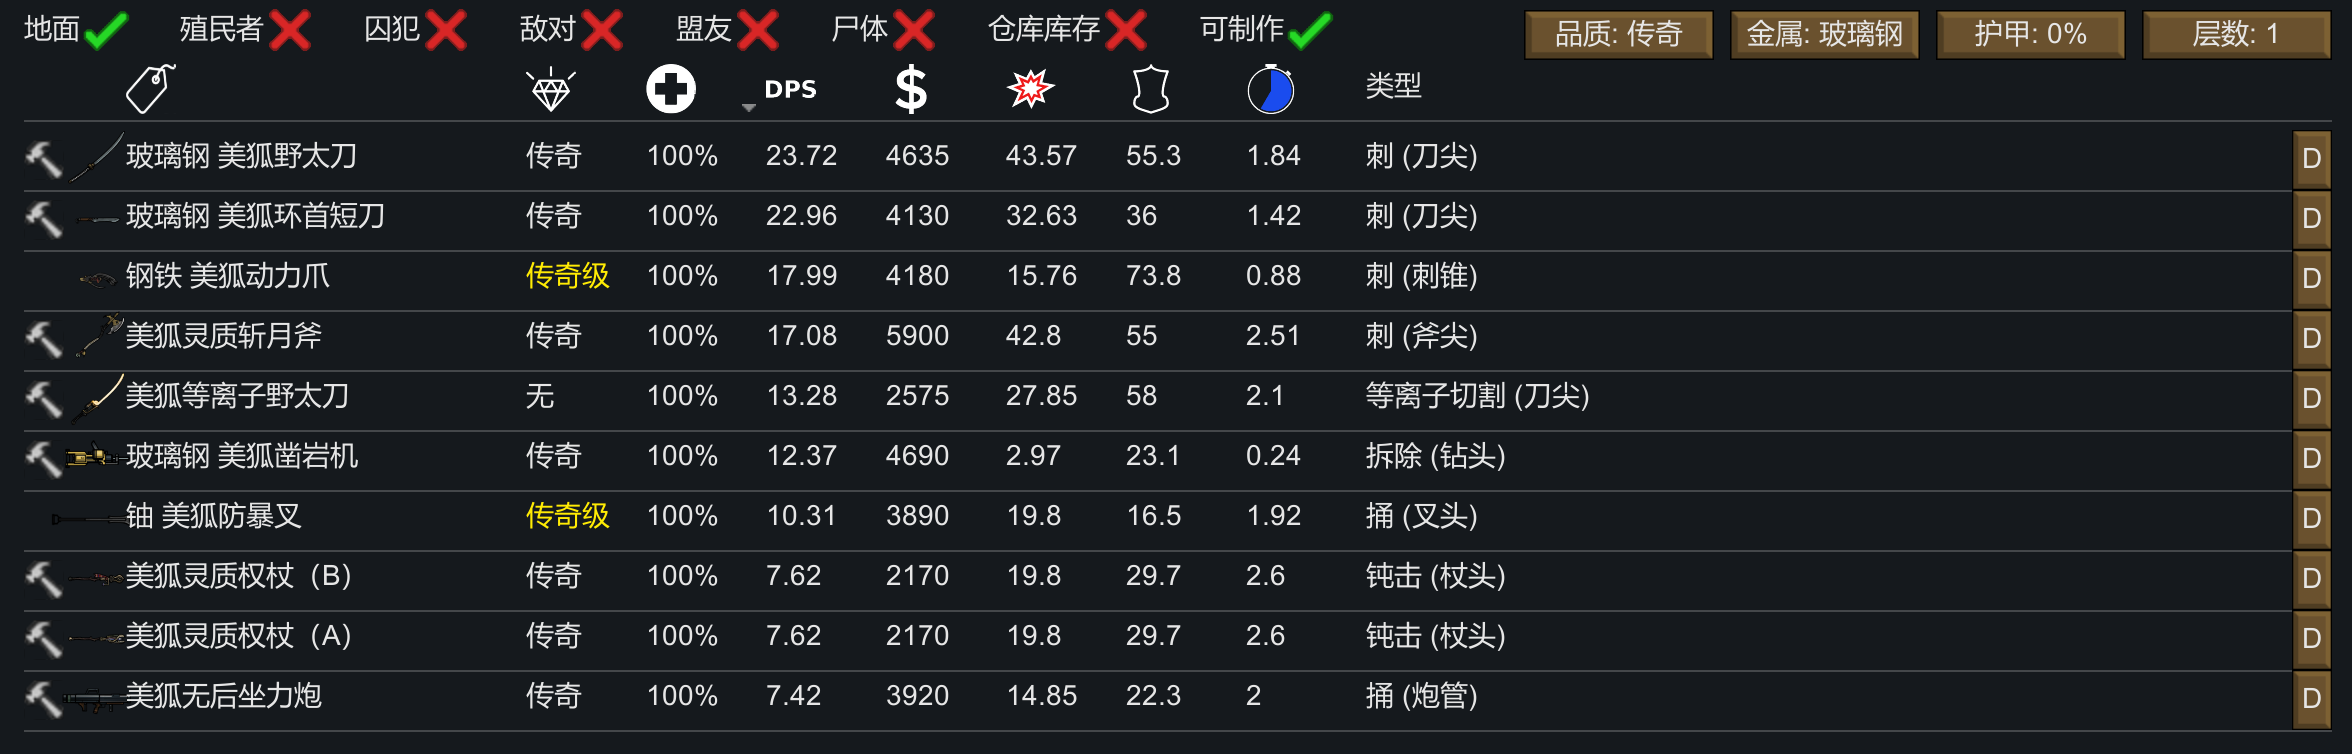
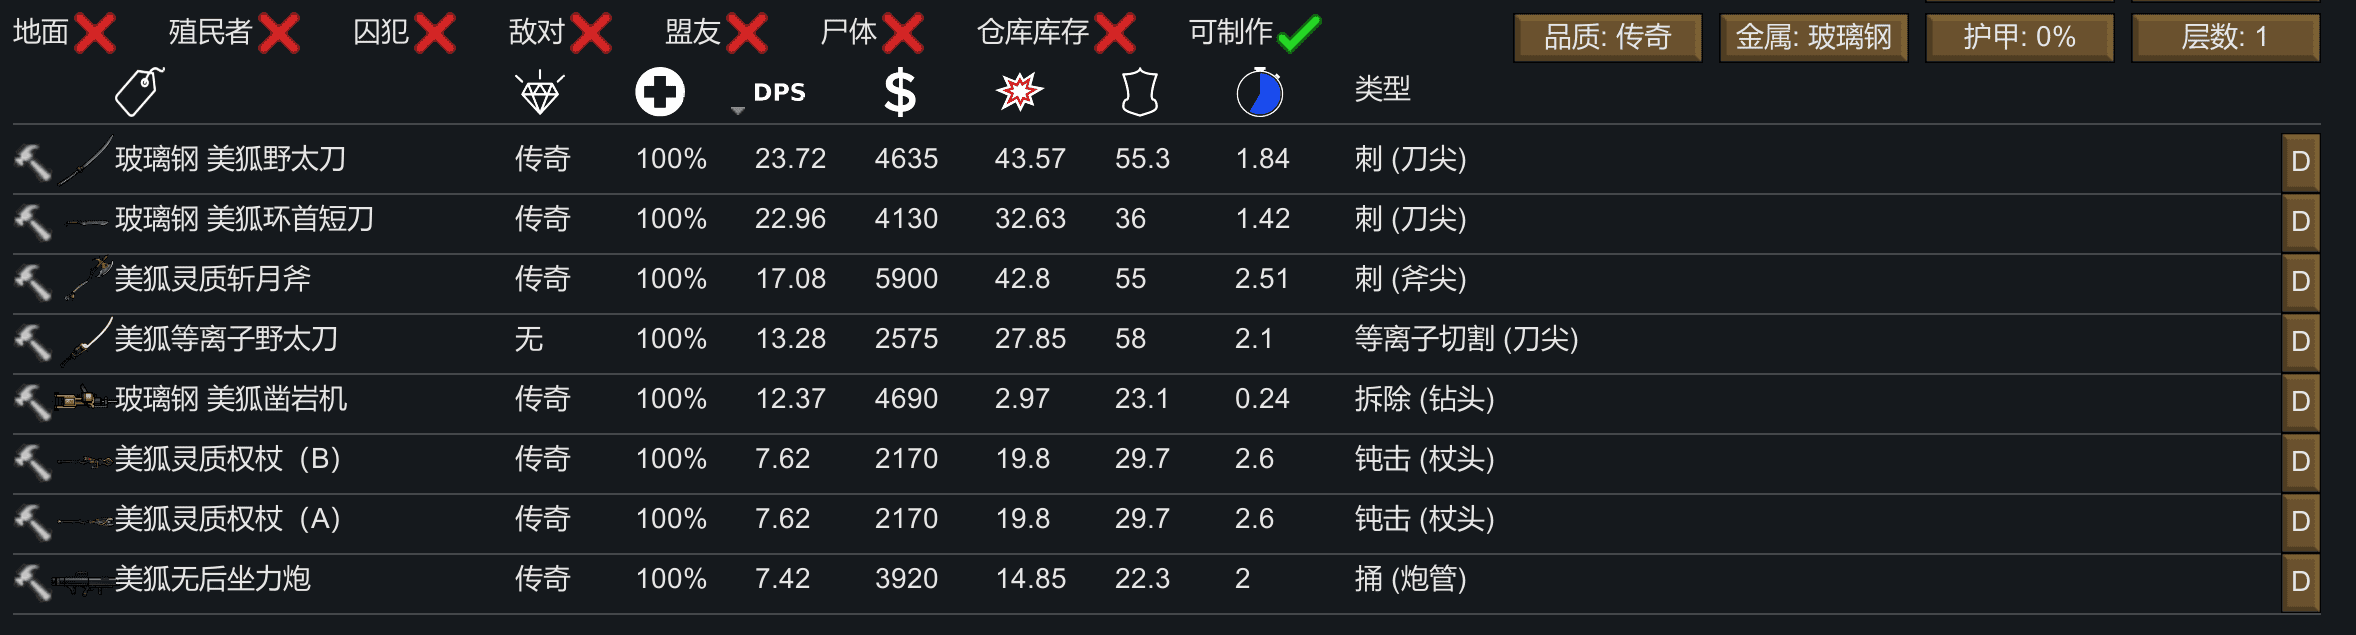
Auto backup: 2026/7/6 04:19:36

Changed region(s): [[0.0, 0.0, 0.9932, 0.9874], [0.6207, 0.0, 0.9932, 0.1197]]

diff --git a/source/_posts/Rimworld/AI通用提示词.md b/source/_posts/Rimworld/AI通用提示词.md
@@ -1,0 +1,125 @@
+---
+title: AI通用提示词
+date: 2026-01-02 22:04:38
+tags: [rimworld]
+categories: [rimworld]
+---
+
+我正在制作rimworld的mod百科,需要你阅读mod的内容,并给出mod内容的详细百科.
+
+工作区路径为 `D:\Games\1_RimworldHistorySaveAndMods\PersonalMod\LocalModsForAI` ,所有的文件都需要接路径前缀
+ -  文件夹下的子文件夹分别为创意工坊的mod源码,每次使用时会告诉你要阅读哪个文件夹的内容.
+ -  mod源码中`1.6\Assemblies`的与dll同名的文件为反编译dll文件得到的源码.
+ -  mcp服务器中有rimworld源码,如需可读取
+ -  `RimworldZH`文件夹为原版的简体中文翻译,方便你确定译名
+ -  仅阅读给你说明的文件夹,若有联动其他文件夹的源码,也可以读取其他文件夹.**但所有的读取与更改不得超过工作区**
+
+在书写过程中,我们遵循如下约定:
+ -  全程以中文进行输出以及书写
+ -  源码中可能以非中文硬编码,制作wiki时,若已存在wiki,则需你自行与wiki中的名词进行对应,若不存在wiki,则你自己翻译一遍,以 `译名(原名)` 的方式书写其第一次出现,后续使用译名
+ -  需要尽可能全面的内容,将mod的**所有内容**都展示出来,不仅仅是种族的特征,还有衣物/武器/派系/建筑等mod中所有数据均要展示,我会自行筛选哪些需要哪些删去,你只负责告诉我一共有哪些内容
+ -  若某属性本身为固定值,则记为 **值  属性** ,例如 15%穿甲 ,意为穿甲本身值为15%
+ -  若某属性为加减乘某值,则记为 **属性±×值** ,例如 承伤-50% ,意为承伤系数减少了50%
+ -  对技能的描述固定为 xx前摇xx cd,xx释放半径xx爆炸半径,xx消耗,为范围内生物造成(是否无视承伤系数)xx穿甲的x点x(伤害类型)伤害,施加"xx"状态,持续xx时间
+ -  若某些内容(技能/武器/衣物)会附带"状态(hediff)",则应当写清状态持续时间(若为随伤害附加,则应说清每点伤害累计x%状态值)
+ -  百科整体遵循"客观内容 空行 主观评论"架构,你只需填充客观内容即可,不必填写主观评论
+ -  此项内容是一个非常大的任务,途中会多次上下文溢出,请自行管理上下文和注意力
+
+
+百科整体架构如下
+```
+
+**重要注意事项**(若有需要特别提醒玩家的机制/bug/注意事项,写在这里,加粗强调)
+
+## 总览/定义区
+
+**定义**(若有自创术语/通用规则需要解释):
+ -  **术语名**: 术语解释
+ -  ...
+
+## 种族本体
+
+以下各章节按需包含,若mod不含该部分内容则跳过对应章节.
+
+### 数值概览
+基础表格 此部分我会自己使用脚本拉取,不需要你进行单独拉取
+
+此处列举种族的整体细节以及机制,要分条写:
+ -  是否有衣物限制,
+ -  是否地形减速免疫,受击减速免疫,单次受伤上限,各类伤害类型减伤(如子弹伤×0.5)等特殊机制
+ -  其余特殊效果,例如空手攻击带眩晕,有额外的机制/社交等.注意要把**所有**与普通人不同的点都写出来
+
+### 基因/特性/心情
+**基因** 先列举该mod都添加了什么基因异种,再说每个基因异种都包含什么基因,最后再说新添加的"非原版"基因是什么效果
+基因异种A:基因1;基因2;基因3;...
+
+基因1(非原版基因):x复杂度+y代谢 详细效果(例如加多少移速,附带哪个技能等)
+
+**特性** 先列举该种族有什么必带特性/概率特性(要写明概率)/必不带特性,再列举该mod新添加的特性的详细效果
+种族A必带xxx特性,30%概率带yyy特性,必定没有zzz特性
+
+aaa特性(非原版特性):是否为某种族专属特性/特殊情况专属特性.若为特殊情况专属特性,则应写明什么情况下才会生成该特性 特性权重 详细效果
+
+**心情**
+ -  特殊心情.特殊心情要在`<details>`折叠中把所有心情都举出来.
+ -  <details>
+    <summary>点击查看AI扒取特殊心情</summary>
+
+    -  xx心情+数值
+    -  xx心情-数值
+    </details>
+
+## 科技
+此处全部为主观部分,理应我来填充,但科技树总是很乱,难免会晕,所以需要你帮我初步整理.包括爬科技树压力,各项内容的重要性(先研究哪个科技更合适),此部分内容应当等后面内容都看完,确定了什么武器/装备/内容更重要后,再回过头来决定哪个科技要进行优先考虑.所以此部分请最后完成
+
+## 武器(若有)
+介绍武器特色与DPS,先介绍整体武器数值倾向(基本等同于原版/弱于原版/强于原版/极强于原版),然后根据其制作成本/科研成本要求,简单分析前中后期可以列装什么武器
+### 近战武器
+**此处仅需列出有附加效果/机制的武器,对于没有任何效果的纯粹武器,我会放一个表格,不需大费周章进行列举**
+
+ -  近战武器:制作成本 取伤害最高的那一个作为单次伤害/攻击间隔 武器附加机制/状态
+如:
+ -  铁剑:20金属 13伤/0.6s 移速+0.2
+
+### 远程武器
+**此处仅需列出有附加效果/机制的武器,对于没有任何效果的纯粹武器,我会放一个表格,不需大费周章进行列举**
+
+ -  远程武器:制作成本 前摇后摇射程连射次数×单次伤害穿甲,四距离精度,传奇级dpsa,叠1%瞄准时间后的dpsa,武器附加机制/状态
+如:
+ -  突击步枪:80钢铁+3零部件 2s前摇1.2s后摇28射程5×6伤25%穿甲的武器,四距离精度40/45/50/55,传奇级dpsa xxx,叠1%瞄准时间为yyy,移速+0.1,命中附加xxx状态,持续x时
+
+## 衣物(若有)
+介绍衣物特色与数值,先介绍衣物护甲的整体数值倾向,然后根据其制作成本/科研成本要求,简单分析前中后期可以列装什么衣物.以及非战斗的工作人员/打杂人员是否有合适的衣物
+
+### 工作衣物(你可以进行细分,例如背包配件/机械师服装/灵能衣物/特殊用途等,但整体架构不变)
+你需要列举**所有**有附加效果/机制的衣物.若同时满足"护甲值条件",则归类为战斗衣物,不归类为工作衣物
+ -  衣物名:制作要求 附加效果
+如:
+ -  白工作服:85皮革或纤维+25布 治疗速度+5% 研究速度+5%
+
+### 战斗衣物(若衣物大于15个,则可进一步细分为前中后期战斗衣物)
+此处需要列举满足 利器防御基础值+材料效果乘数(StuffEffectMultiplierArmor)×(若仅允许皮革纤维,则乘2.08;若仅允许金属,则乘1.14)>0.8(下称此不等式为护甲值条件) 的衣物.
+ -  衣物名:制作要求 x利器基础值y材料效果乘数(若为固定防御,则写为三防x/y/z) 附加效果(若有)
+如
+ -  夜行衣:160皮革或纤维+75魔菇布 60%利器基础值 35%材料效果乘数 可潜行 崩溃临界值-5% 狩猎隐蔽率+40% 疼痛休克阈值+15%
+ -  勇者甲胄:不可制作 三防200/156/130 崩溃临界值-5% 近战命中率+6 近战闪避率+8 远程闪避率+15% 移速+0.2 抑止时间乘数+10% 易燃性×0%
+
+## 派系
+添加了xx派系 默认中立/敌对/永久敌对;xx科技等级
+该派系添加了(非原版)商队xxx,卖啥买啥(如果是和原版派系一样就别写了)
+该派系据点额外有xxx卖(如果是和原版派系一样就别写了)
+
+## Mod特色内容
+这里填写作者特别研发的特色内容,例如某些种族机械专精/灵能专精等,这里详细介绍其特殊机制.我会在末尾简单说一些特色内容,但是你仍需要深度挖掘看有没有我没有注意到的特色内容.注意此部分一定要详细.
+
+## Mod其余内容
+ -  添加的食物/医疗品:
+     -  1名称=制作成本 食用后获得"xx"状态,持续时长
+        列出状态效果
+ -  添加的事件:`事件id`
+     -  事件名称:事件最低触发时间,触发间隔,触发权重,事件内容/事件要求
+ -  添加的其余配方/内容
+     -  用于查漏补缺,暂时没有明确要求,但越详细越好
+```
+
+现在,请你读取  文件夹,完善

diff --git a/source/_posts/Rimworld/二次元种族/美狐.md b/source/_posts/Rimworld/二次元种族/美狐.md
@@ -5,7 +5,6 @@ tags: [rimworld,种族,原版向]
 categories: [rimworld]
 ---
 
-
 ## 种族本体
 ### 数值概览
 |属性|智人种|美狐|
@@ -44,16 +43,16 @@ categories: [rimworld]
 
 可以穿戴原版衣物
 男女比例为3:7
+产出皮革为狐皮
 
-美狐族自带一些特殊抗性:
-|伤害 Def|倍率|
-|---|---|
-|`Miho_MagicBomb`|0|
-|`Miho_MagicBombBatto`|0|
-|`Miho_MagicBombEMP`|0|
-|`Flame`|50%|
-|`Burn`|50%|
-|`MihoPlasma`|75%|
+美狐族带有独特的"秘兰灵腺状态"状态,每天自然降低7%.使用煦日茶或曜阳烟增长7.5%
+
+秘灵药物成瘾每天降低100%,戒断时心情-3,可使用煦日茶或曜阳烟满足
+
+美狐族自带一些特殊伤害类型抗性:免疫Miho_MagicBomb(美狐灵能技能)伤害,免疫Miho_MagicBombBatto(灵能拔刀斩)伤害,免疫Miho_MagicBombEMP伤害.火焰伤×50%,烧伤×50%,美狐等离子伤×75%
+
+<!-- **尾巴部分暂时不生效** 美狐带有独特的"Tail"隐藏状态,其每天下降200%,但在进食,观星,祈祷,散步,堆雪人,观赏艺术,社交放松,娱乐,看电视,演奏,使用工作台,清理,研究,爱爱,扫墓,探望病人时候每5秒增加10%.超过75%时全局工作速度+10%,心情+4 -->
+
 ### 基因
 添加的美狐异种
  -  凡灵种:较慢愈合;好斗;性欲旺盛;魅力出众;天阳庇佑;听觉发达;驯兽无能;社交出色
@@ -64,37 +63,44 @@ categories: [rimworld]
  -  虚零种:较慢愈合;虚零之狐;极度冷静;不擅近战;脆弱;性欲旺盛;不育;魅力出众;天阳庇佑;听觉发达;室内居民;细长手指;格斗无能;建造出色;采矿出色;驯兽无能
 
 添加的基因
- -  天阳庇佑:2复杂度-3代谢 强制火焰迷恋特性 抑制成瘾品厌恶特性.日光下移速×1.2 心灵熵消散速率+1.5 秘灵爆炸伤害×0% 阳光沐浴心情+3
+ -  天阳庇佑:2复杂度-3代谢 强制火焰迷恋特性 抑制成瘾品厌恶特性 日光下移速×1.2 心灵熵消散速率+1.5 心情+3 Miho_MagicBomb/EMP伤害×0%
  -  听觉发达:1复杂度-2代谢 近/贴近精度×101% 中精度×99% 远精度×98% 谈判能力+10% 交易价格改善+10% 社交效果+10%
- -  雪凛之狐:2复杂度0代谢  承伤×90% 最低舒适温度-16℃ 谈判能力社交效果-10% 交易价格改善-10% 移速-0.24
- -  沙伶之狐:0复杂度-1代谢 最高舒适温度+8℃ 全局学习系数+25% 全局工作速度-10%
- -  战凌之狐:0复杂度-1代谢 承伤×75% 谈判能力-10% 交易价格改善-10% 社交效果-10% 觅食能力-1 移速+0.5
- -  欲琳之狐:2复杂度-4代谢 附加"撒娇"技能
- -  裸体诱惑:2复杂度-1代谢 未着衣下,魅力+1 最高最低舒适温度±8℃ 谈判能力+30% 交易价格改善+30% 社交效果+30%
- -  虚零之狐:1复杂度-1代谢 休息值下降速率×110% 最低舒适温度-24℃ 觅食能力-1 真空抗性+100% 全局工作速度+10%
+ -  裸体诱惑:2复杂度0代谢  强制裸体主义特性 未着衣下,魅力+1 最高最低舒适温度±8℃ 谈判能力+30% 交易价格改善+30% 社交效果+30%
+ -  雪凛之狐:1复杂度-1代谢 承伤×90% 最低舒适温度-16℃ 谈判能力-10% 社交效果-10% 交易价格改善-10% 移速-0.24
+ -  沙伶之狐:1复杂度-1代谢 最高舒适温度+8℃ 全局学习系数+25% 全局工作速度-10%
+ -  战凌之狐:2复杂度-4代谢 承伤×75% 谈判能力-10% 交易价格改善-10% 社交效果-10% 觅食能力-1 移速+0.5
+ -  欲琳之狐:2复杂度-1代谢 附加"撒娇"技能
+ -  虚零之狐:1复杂度-1代谢 休息值下降速率×110% 最低舒适温度-24℃ 觅食能力-1 真空抗性+100% 全局工作速度+10% 免疫真空灼伤
 
 欲琳之狐附带技能:
  -  撒娇:1s前摇,60%精神力消耗,持续15000 tick,对殖民者/囚犯/奴隶目标施加"撒娇"状态,工作速度+20%,移速+0.2,心情+12.
 
 **特性**
+美狐族必定有火焰迷恋特性,必定没有丑陋和丑绝人寰特性
  -  火焰迷恋:美狐基因专属特性,添加了"火焰"灵媒类型
- -  美狐必定不带丑陋和丑绝人寰特性
 
 **心情**
 <details>
 <summary>点击查看AI扒取特殊心情</summary>
 
- -  阳气匮乏 -8
- -  阳气不足 -4
- -  阳气充足 +3
- -  阳气满盈 +3
- -  尾部状态活跃 +4
- -  受到撒娇 +12
- -  灵符封印抗拒 -6
- -  灵符封印起效 -1
- -  灵符封印顺从 +24
- -  秘灵药物戒断 -3
- -  朝花汤剂戒断 -22
+ -  阳气匮乏(秘兰灵腺耗竭阶段):-8
+ -  阳气不足(秘兰灵腺严重下降阶段):-4
+ -  阳气充足(秘兰灵腺正常阶段):+3
+ -  阳气满盈(秘兰灵腺过充电阶段):+3
+ -  秘灵药物戒断:-3
+ -  尾巴摇摆·兴高采烈(现在不生效):+4
+ -  被亲昵(被动物亲昵):-1(每层,最多叠3层,叠加系数0.5,心理变态无效,持续1天)
+ -  杀死我的羁绊动物:好感-5(持续60天)
+ -  是动物的主人:+1(心理变态无效)
+ -  不是动物的主人:0
+ -  吃了特制豆皮寿司:+12(持续1天)
+ -  (非美狐)吃了特制豆皮寿司:+6
+ -  撒娇激励(欲琳之狐技能):+12
+ -  阳光沐浴(天阳庇佑基因,日照下):+3
+ -  曜阳烟亢奋:+3
+ -  煦日茶暖身:+2
+ -  生吃秘灵葵花瓣:+3
+ -  吃火玄桑葚:+4(持续1天)
 </details>
 
 ## 科技
@@ -107,23 +113,29 @@ categories: [rimworld]
  -  美狐环首短刀:100金属+20原木+2零部件 种植速度+10% 屠宰速度+25%
  -  美狐野太刀:120金属+25原木+25火玄丝绸+4零部件 移速-0.25 近战闪避率+2
  -  美狐等离子野太刀:120军用陶瓷+100黄金+5高级零部件+8零部件 等离子切割有概率附加点燃,每点等离子切割伤害累计1.6%"护甲熔解"状态
- -  灵质权杖A:60原木+4零部件 心灵熵消散速率+1.5 心灵熵阈值+75
- -  灵质权杖B:60原木+4零部件 心灵熵消散速率+4 心灵熵阈值+15
- -  灵质斩月斧:100黄金+150玻璃钢+4高级零部件 心灵熵消散速率+2.75 心灵熵阈值+15
+ -  美狐灵质权杖A:60原木+4零部件 **仅美狐族可装备** 心灵熵消散速率+1.5 心灵熵阈值+75
+ -  美狐灵质权杖B:60原木+4零部件 **仅美狐族可装备** 心灵熵消散速率+4 心灵熵阈值+15
+ -  美狐灵质斩月斧:100黄金+150玻璃钢+4高级零部件 **仅美狐族可装备** 心灵熵消散速率+2.75 心灵熵阈值+15
  -  美狐动力爪:**实际无法制作** 90金属+40火玄丝绸+2高级零部件+6零部件 种植速度+20% 近战命中+2
  -  美狐防暴叉:**实际无法制作** 125金属+2零部件 移速-0.24 近战闪避+5 压制能力+10% 命中有15%概率造成1.5s眩晕
 
 近战武器仅有野太刀和环首短刀的dps能小优于原版的长剑,前者减移速吃科研,甚至还要25个火玄丝绸,感觉不如环首短刀  
 工作视角来看呢,整体的数值给的都很一般,仅有凿岩机的采矿速度+75% 打磨速度+50%较为突出,顶半个挖掘臂了.不过他要20零部件(美狐三人/飞船开局送一个)  
-三把灵能武器则是毫无疑问的夯爆了级别,A阈值高,B消散快,斧子伤害高.那选哪个呢?我们进行简单计算  
+三把灵能武器则是毫无疑问的夯爆了级别,A爆发高B续航高斧子伤害高,那选哪个呢?我们进行简单计算  
 对于正常的100%心灵敏感度美狐来说,其6级启灵神经对应心灵熵阈值为80,消散速率为0.41(非阳光)2.84(阳光下)  
-携带A之后阈值变为280×心灵敏感度,消散速率为2.84(非阳光)5.28(阳光下)  
-携带B之后阈值变为120×心灵敏感度,消散速率为6.91(非阳光)9.34(阳光下)  
-那你说哪个好呢?
+装备A之后阈值变为280×心灵敏感度,消散速率为2.84(非阳光)5.28(阳光下)  
+装备B之后阈值变为120×心灵敏感度,消散速率为6.91(非阳光)9.34(阳光下)  
+那哪个好呢?其实整体区别并不大,
 
-狂暴脉冲65熵6%精神力消耗,50%精神力总计可以释放9次也就是585熵,A在非阳光要108秒,阳光下58秒.B在非阳光要67秒,阳光下49秒.显然B是适用性更强的通用解,A的优点仅有最开始能连续释放,后期非常乏力.同时考虑到你哪怕穿个原版的灵质衣物/异象吸个敏感度都能有效提高阈值
+狂暴脉冲65熵6%精神力消耗,50%精神力总计可以释放9次也就是585熵,A在非阳光要108秒,阳光下58秒.B在非阳光要67秒,阳光下49秒.显然B是适用性更强的通用解,A的优点仅有最开始能连续释放,后期会非常乏力.同时考虑到你哪怕穿个原版的灵质衣物/异象吸个敏感度都能有效提高阈值
 
 ### 远程武器
+<img src="/images/美狐/美狐-远程武器.png" style="max-width: 65em">
+
+美狐的远程武器与原版武器不同,其大部分使用了"烧伤"这一伤害类型,而不是原版的"子弹伤"(但是护甲判定仍是锐器护甲,仍会进行链式传递).  
+烧伤的特点是疼痛高,不流血.每点枪伤只能造成1.25%疼痛,但每点烧伤可造成1.875%疼痛,是枪伤的1.5倍.以普通智人的1体型80%疼痛休克阈值来算,倒地总计需要42.7伤害
+
+美狐冲锋枪每点伤害附带2%护甲溶解
 ## 衣物
 ## 机械体
 ## 特色内容